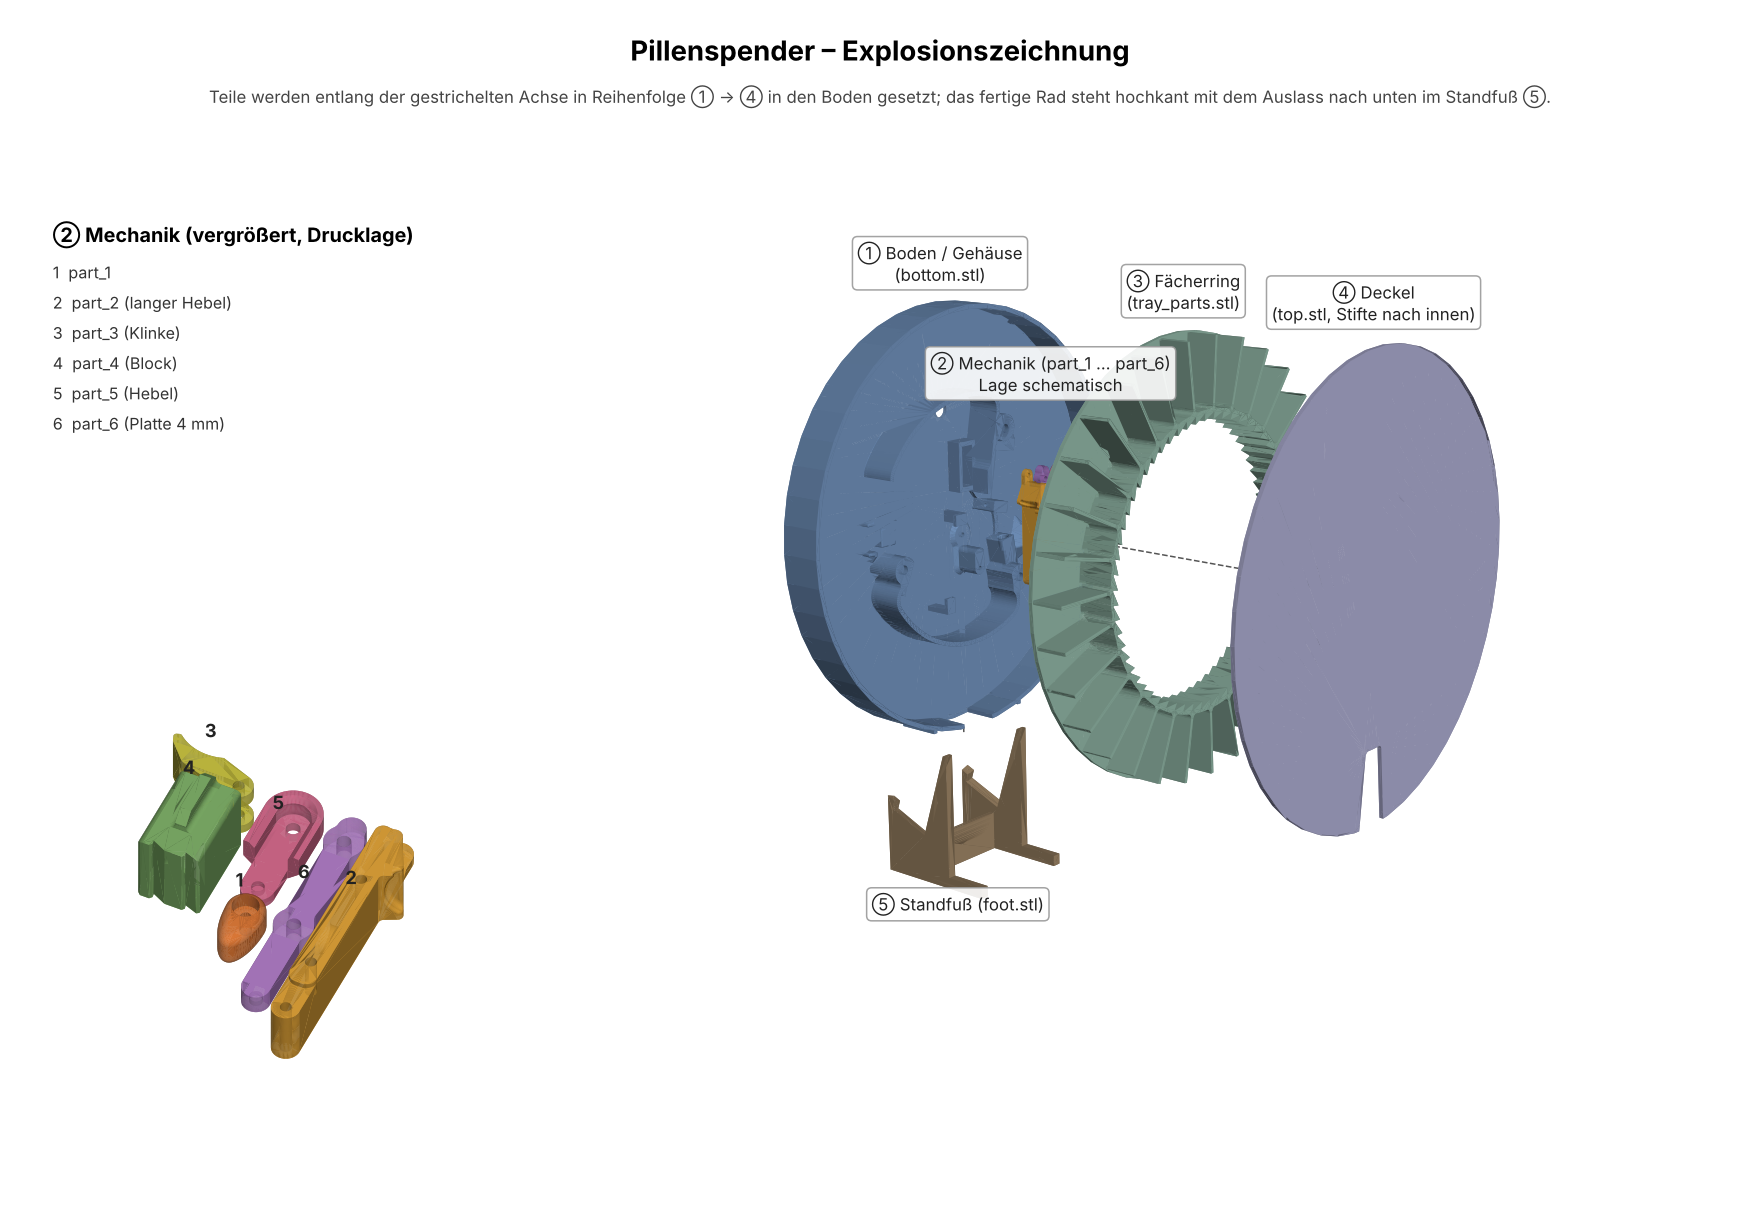
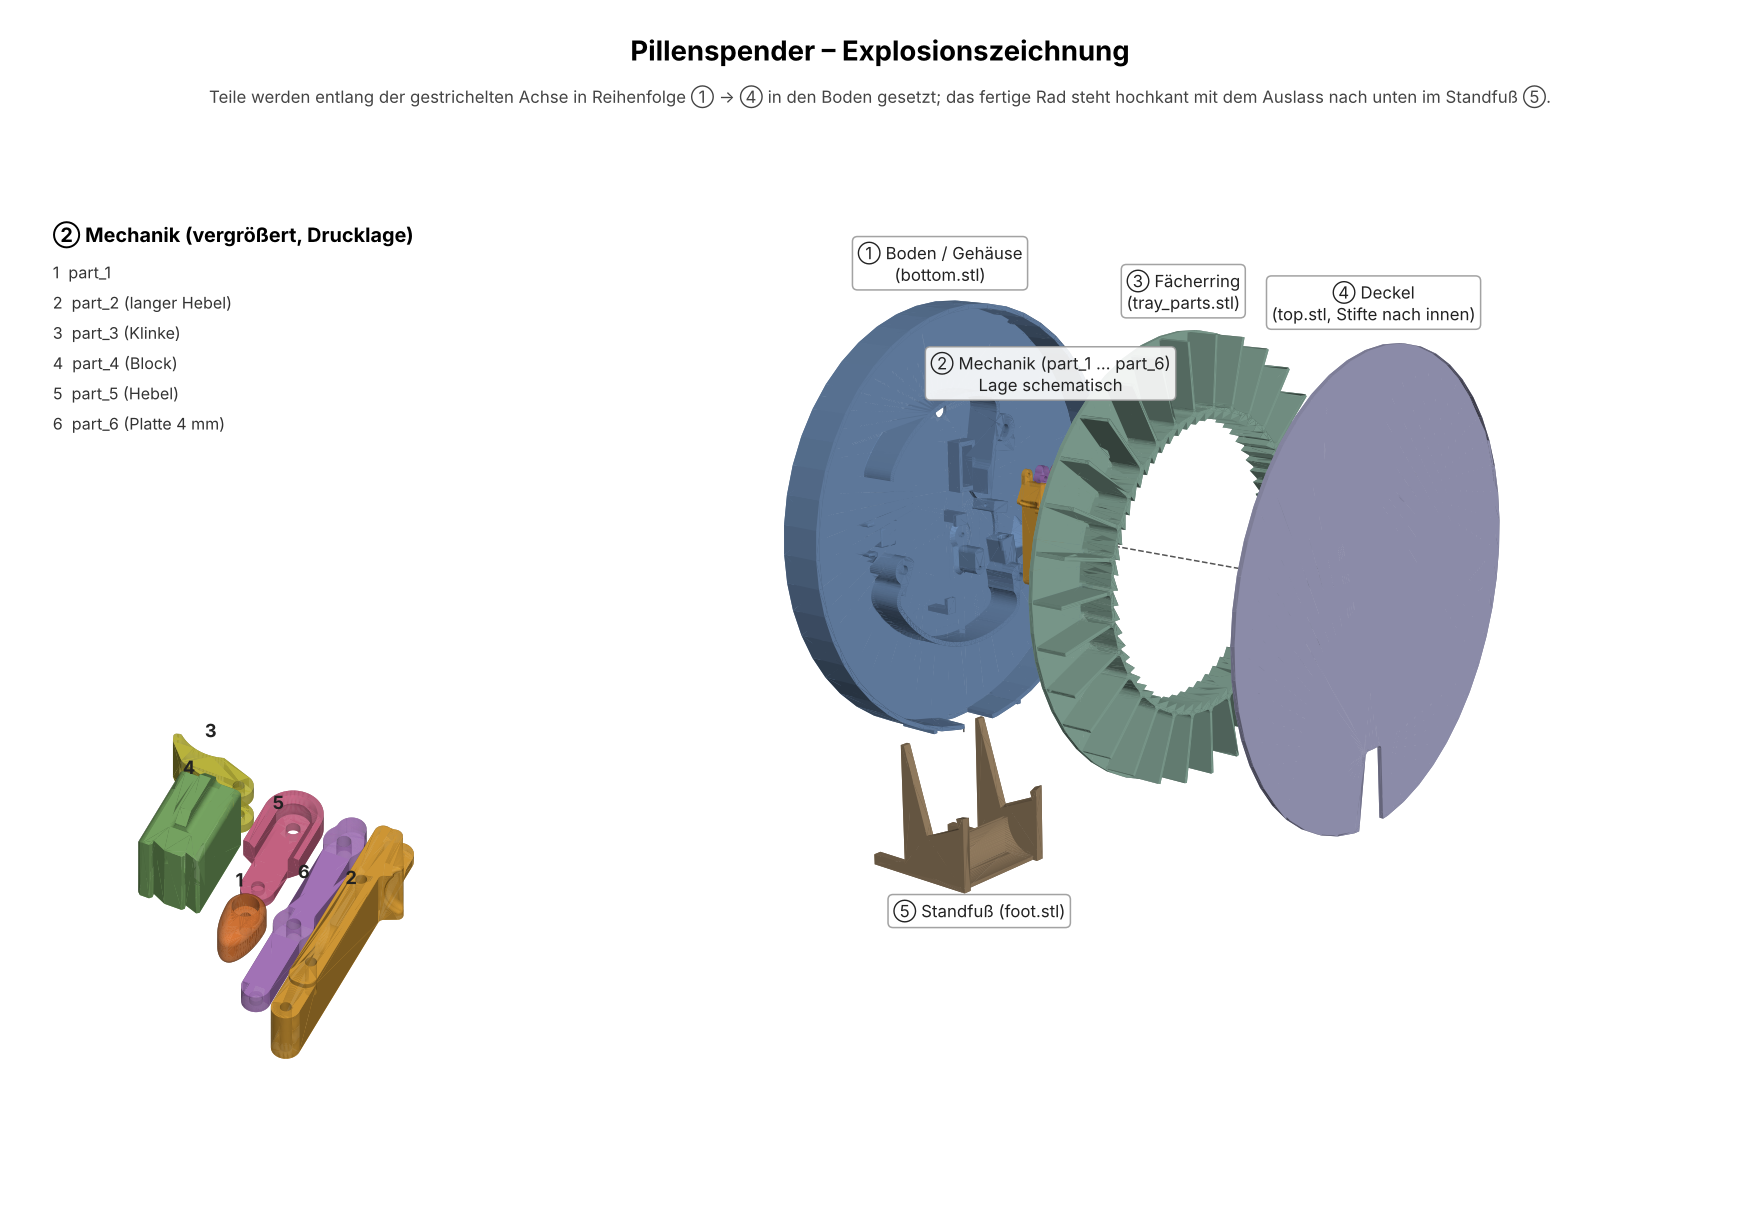
Flatten cad_files/modified, fix foot orientation in exploded view
Move all files from cad_files/modified one level up, rotate the stand by
180 degrees in the exploded view and add the script that renders it.

Claude-Session: https://claude.ai/code/session_01SRv9jZhJbHwKEGwqSJzHod

Changed region(s): [[0.5, 0.581, 0.625, 0.7645]]

diff --git a/cad_files/render_explosion.py b/cad_files/render_explosion.py
@@ -1,0 +1,74 @@
+# Renders explosionszeichnung.png. Run from cad_files/: python3 render_explosion.py explosionszeichnung.png
+# Requires: pip install numpy matplotlib trimesh fast_simplification
+import trimesh, numpy as np, matplotlib, sys
+matplotlib.use('Agg')
+import matplotlib.pyplot as plt
+from mpl_toolkits.mplot3d.art3d import Poly3DCollection, Line3D
+D=''
+def load(f, n=None):
+    m=trimesh.load(D+f,force='mesh')
+    if n and len(m.faces)>n: m=m.simplify_quadric_decimation(face_count=n)
+    return m
+BC=np.array([0.5,3.48])            # Achse des Bodens
+parts=[]  # (mesh in local disc frame, color, label, explode offset along axis)
+b=load('bottom.stl'); parts.append((b,'#6f8fb8','① Boden / Gehäuse\n(bottom.stl)',0))
+# Mechanik im Druck-Layout, über Mechanikbereich zentriert
+mech=[]
+for i in range(1,7):
+    m=load(f'Assembly_parts/part_{i}.stl',6000 if i==1 else None)
+    m.apply_translation([-24.2+BC[0]-4, -25.1+BC[1]+6, 2])
+    mech.append(m)
+mcol=['#e07b39','#e0a339','#c9c241','#7fb069','#d46a8c','#b07cc6']
+for i,m in enumerate(mech): parts.append((m,mcol[i],None,70))
+r=load('tray_parts.stl'); r.apply_translation([BC[0]-3.15,BC[1]+0.76,0]); parts.append((r,'#8fb3a3','③ Fächerring\n(tray_parts.stl)',150))
+t=load('top.stl'); t.apply_transform(np.diag([-1,1,-1,1])); t.apply_translation([BC[0]+0.17,BC[1]+1.37,22]); parts.append((t,'#a7a7c9','④ Deckel\n(top.stl, Stifte nach innen)',240))
+f=load('foot.stl')
+# Weltkoordinaten: X=x, Z=y (Auslass unten), Y=z (Scheibenachse liegt waagerecht)
+def world(v,off): return np.c_[v[:,0], v[:,2]+off, v[:,1]]
+polys=[];cols=[]
+L=np.array([0.45,0.75,0.5]);L/=np.linalg.norm(L)
+def add(V,F,col):
+    tri=V[F]; n=np.cross(tri[:,1]-tri[:,0],tri[:,2]-tri[:,0]); n/=np.linalg.norm(n,axis=1)[:,None]+1e-12
+    s=np.abs(n@L)*0.65+0.35
+    c=np.array(matplotlib.colors.to_rgb(col))
+    polys.extend(tri); cols.extend(np.clip(c[None]*s[:,None],0,1))
+anchors=[]
+for m,col,lab,off in parts:
+    V=world(m.vertices,off); add(V,m.faces,col)
+    if lab: anchors.append((V.mean(0),lab,V))
+# Fuß: V-Rinne (y≈-5, z≈25) unter die Unterkante der Scheibe, 45 mm nach unten abgesetzt
+fv=f.vertices.copy(); fv=np.c_[-fv[:,0]+7+BC[0], -fv[:,1]+6, fv[:,2]-25+(BC[1]-95.5)-45]
+add(fv,f.faces,'#9c8466')
+fig=plt.figure(figsize=(16,11)); ax=fig.add_axes([0.28,0.0,0.72,0.9],projection='3d'); ax.set_proj_type('persp',focal_length=0.35)
+pc=Poly3DCollection(np.array(polys),facecolors=np.array(cols),edgecolor='none'); ax.add_collection3d(pc)
+# Montageachse
+ax.plot([BC[0]]*2,[-20,270],[BC[1]]*2,'--',color='#555',lw=1)
+for y in (60,120,185): pass
+ax.set_xlim(-130,130);ax.set_ylim(-20,280);ax.set_zlim(-190,110)
+ax.set_box_aspect((260,260,300))
+ax.view_init(elev=16,azim=38); ax.set_axis_off()
+def lbl(p,text,dx=0,dz=0):
+    ax.text(p[0]+dx,p[1],p[2]+dz,text,fontsize=11,ha='center',va='bottom',color='#222',
+            bbox=dict(boxstyle='round,pad=0.3',fc='white',ec='#999',alpha=0.9))
+for (c,lab,V) in anchors: lbl([c[0],c[1],V[:,2].max()],lab,dz=8)
+mc=np.vstack([world(m.vertices,70) for m in mech]); 
+lbl([mc[:,0].mean(),mc[:,1].mean(),mc[:,2].max()],'② Mechanik (part_1 … part_6)\nLage schematisch',dz=30)
+lbl([fv[:,0].mean(),fv[:,1].mean(),fv[:,2].min()],'⑤ Standfuß (foot.stl)',dz=-28)
+ax.plot([BC[0]]*2,[11,11],[BC[1]-95.5-5,fv[:,2].max()+5],'--',color='#555',lw=1)
+fig.text(0.5,0.95,'Pillenspender – Explosionszeichnung',ha='center',fontsize=18,weight='bold')
+fig.text(0.5,0.915,'Teile werden entlang der gestrichelten Achse in Reihenfolge ① → ④ in den Boden gesetzt; das fertige Rad steht hochkant mit dem Auslass nach unten im Standfuß ⑤.',ha='center',fontsize=11,color='#444')
+# Vergrößerter Ausschnitt Mechanik
+ax2=fig.add_axes([0.0,0.02,0.32,0.52],projection='3d'); ax2.patch.set_alpha(0); ax2.set_proj_type('ortho')
+names=['part_1','part_2 (langer Hebel)','part_3 (Klinke)','part_4 (Block)','part_5 (Hebel)','part_6 (Platte 4 mm)']
+P=[];C=[]
+for i,m in enumerate(mech):
+    tri=m.vertices[m.faces]; n=m.face_normals; s_=np.abs(n@np.array([0.3,-0.4,0.87]))*0.65+0.35
+    P.extend(tri); C.extend(np.clip(np.array(matplotlib.colors.to_rgb(mcol[i]))[None]*s_[:,None],0,1))
+    c=m.bounds.mean(0); ax2.text(c[0],c[1],m.bounds[1][2]+8,str(i+1),fontsize=12,weight='bold',ha='center',color='#222')
+ax2.add_collection3d(Poly3DCollection(np.array(P),facecolors=np.array(C),edgecolor='none'))
+allv=np.vstack([m.vertices for m in mech]); c=allv.mean(0); r=30
+ax2.set_xlim(c[0]-r,c[0]+r);ax2.set_ylim(c[1]-r,c[1]+r);ax2.set_zlim(-10,40);ax2.set_box_aspect((1,1,0.8))
+ax2.view_init(elev=50,azim=-65); ax2.set_axis_off()
+fig.text(0.03,0.80,'② Mechanik (vergrößert, Drucklage)',fontsize=13,weight='bold')
+for i,n in enumerate(names): fig.text(0.03,0.77-i*0.025,f'{i+1}  {n}',fontsize=10.5,color=mcol[i] if False else '#333')
+plt.savefig(sys.argv[1],dpi=110)

diff --git a/cad_files/Readme.md b/cad_files/Readme.md
@@ -10,12 +10,14 @@ Based on https://github.com/Shaztech/Pilldispenser
 
 # Files
 
-All parts live in `modified/` (the original Shaztech files were superseded and removed):
+The original Shaztech files were superseded by these modified versions and removed:
 
-- `modified/bottom.stl` – housing / bottom
-- `modified/Assembly_parts/part_1.stl` … `part_6.stl` – mechanism parts
-- `modified/tray_parts.stl` – pill ring with ratchet teeth
-- `modified/top.stl` – lid (pins face into the housing)
-- `modified/foot.stl` – stand, the wheel stands upright with the outlet facing down
+- `bottom.stl` – housing / bottom
+- `Assembly_parts/part_1.stl` … `part_6.stl` – mechanism parts
+- `tray_parts.stl` – pill ring with ratchet teeth
+- `top.stl` – lid (pins face into the housing)
+- `foot.stl` – stand, the wheel stands upright with the outlet facing down
 
 See `explosionszeichnung.png` for an exploded view (placement of the mechanism parts is schematic).
+
+`render_explosion.py` regenerates the image (run it from this folder: `python3 render_explosion.py explosionszeichnung.png`).
